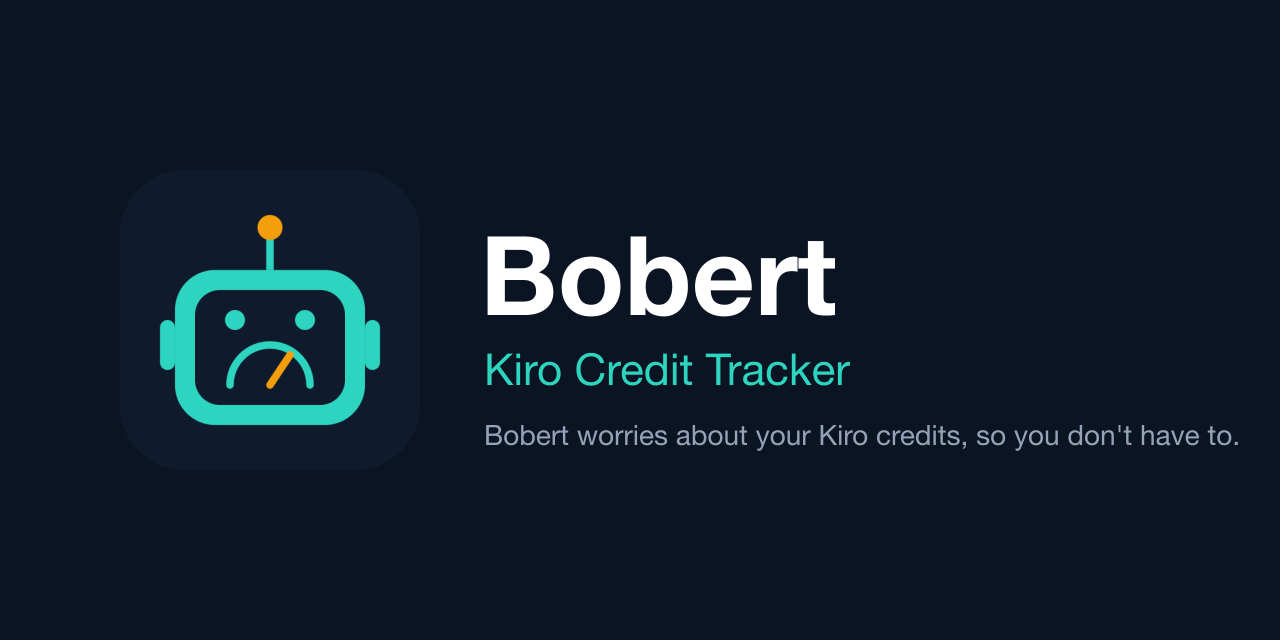
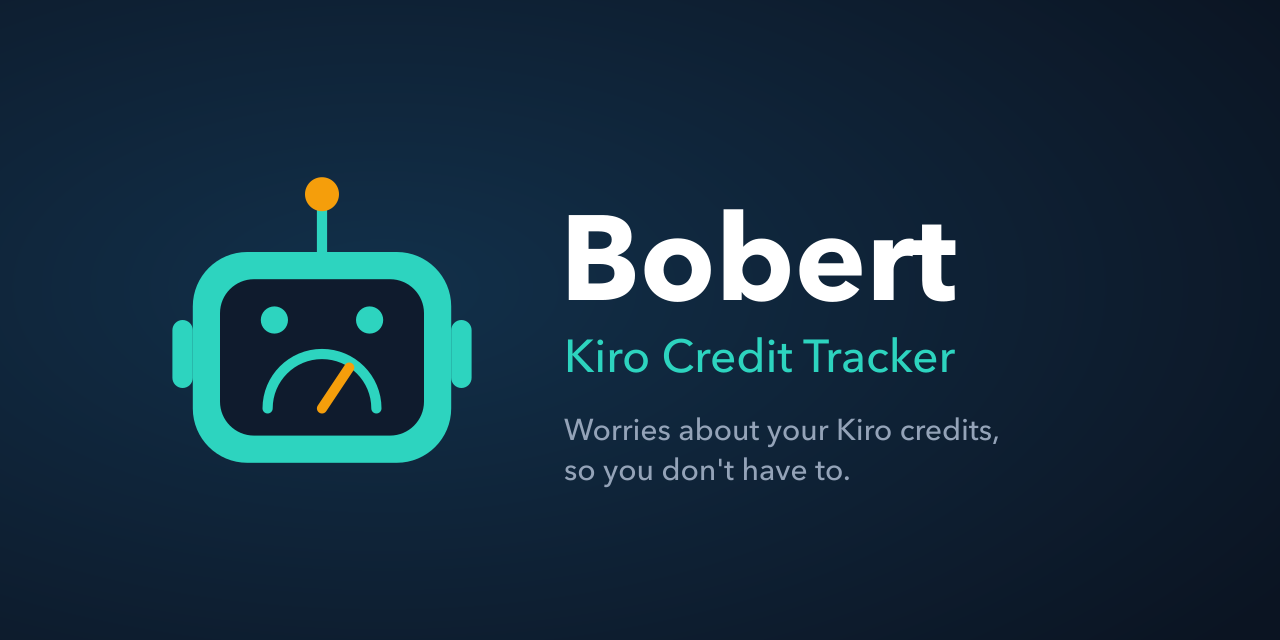
docs(media): frameless social preview and story GIF from the final video (#2)
## Summary
- Social preview
(`assets/branding/bobert-github-social-preview-1280x640.png`): Bobert
without the icon tile, new layout; SVG source added under
`assets/branding/source/`.
- README story GIF (`docs/media/demo.gif`) rebuilt from the final launch
video (credit meter, model hint, audit, typed search box) with updated
alt text. Invented data only.
- Branding docs updated.

The repository's social preview still has to be uploaded manually in
Settings → General → Social preview.

## Checks
`pnpm typecheck`, `pnpm test` (779 pass), `pnpm test:release` (120
pass), `git diff --check`.

🤖 Generated with [Claude Code](https://claude.com/claude-code)

Changed region(s): [[0.0, 0.0938, 0.9688, 0.7812]]

diff --git a/README.md b/README.md
@@ -14,7 +14,7 @@ Bobert looks like he has seen a ghost. He has: your credit forecast.
 Kiro tells you how many credits you have used. Bobert tells you what that means: whether they will last until the reset, what going over would cost, and where credits quietly leak away. It's all in your status bar, a few days before it matters rather than at the end of the cycle.
 
 <p align="center">
-  <img src="https://raw.githubusercontent.com/StefanSuess/Bobert/main/docs/media/demo.gif" alt="Animated story with invented data: Bobert, a robot with a gauge for a mouth, asks whether you ran out of Kiro credits before the reset; a notice warns that the credits run out on 27 Oct, 5 days before the reset (about $38 over the limit, modelled); the credit view shows what going over would cost; the workspace audit finds database dumps and archives Kiro may read; Bobert prepares the .kiroignore lines for review; the end card says Bobert is free, open source and runs locally." width="900">
+  <img src="https://raw.githubusercontent.com/StefanSuess/Bobert/main/docs/media/demo.gif" alt="Animated story with invented data: Bobert, a robot with a gauge for a mouth, watches the Kiro credit meter drain to 0% before the reset; a notice warns five days before the credits run out; the credit view shows that going over would cost about $38 (modelled); a speech bubble shows the model hint that a pricier model uses more credits than Auto; the workspace audit finds 190 MB of dumps and a hook that runs on every change; Bobert prepares the fix for review; the end card types Bobert into an extensions search box." width="900">
 </p>
 
 ## Why you'll want it

diff --git a/docs/branding.md b/docs/branding.md
@@ -23,7 +23,7 @@ Bobert is a small robot whose mouth is a credit gauge. He is the product's perso
 
 - Extension metadata: `package.json` `"icon"` points to `assets/branding/bobert-icon-256.png`. Marketplaces need a PNG of at least 128×128; 256 keeps it sharp on high-DPI screens.
 - GitHub project branding (avatar): `bobert-icon-1024.png`. Uploading it is a manual repository setting, not part of this change.
-- GitHub social preview: `bobert-github-social-preview-1280x640.png`. It is not applied automatically; a repository admin sets it manually under GitHub repo **Settings > Social preview**. It shows the icon, the name and the subtitle on the navy background.
+- GitHub social preview: `bobert-github-social-preview-1280x640.png`. It is not applied automatically; a repository admin sets it manually under GitHub repo **Settings > Social preview**. It shows Bobert without the icon tile, the name, the subtitle and the tagline on the navy background; its source is `source/bobert-github-social-preview.svg` (rendered with `rsvg-convert`, font Avenir Next).
 - README: see below.
 - First beta release materials: `bobert-icon-512.png` or `-1024.png`.
 

diff --git a/assets/branding/README.md b/assets/branding/README.md
@@ -4,7 +4,8 @@ Canonical Bobert icon files. See [docs/branding.md](../../docs/branding.md) for 
 
 | File | Purpose |
 | --- | --- |
-| `source/bobert-icon.svg` | Vector source of the icon. Every PNG here is rendered from it. |
+| `source/bobert-icon.svg` | Vector source of the icon. Every icon PNG here is rendered from it. |
+| `source/bobert-github-social-preview.svg` | Source of the social preview (Bobert without the tile, Avenir Next). |
 | `bobert-icon-1024.png` | Largest rendering, transparent corners. For release material and avatars. |
 | `bobert-icon-512.png` | Documentation and release pages. |
 | `bobert-icon-256.png` | **Packaged extension icon** (`package.json` `icon`). |
